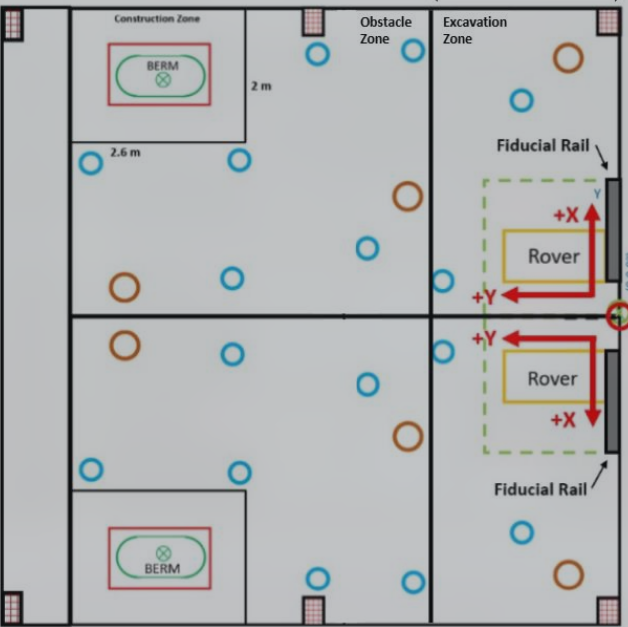
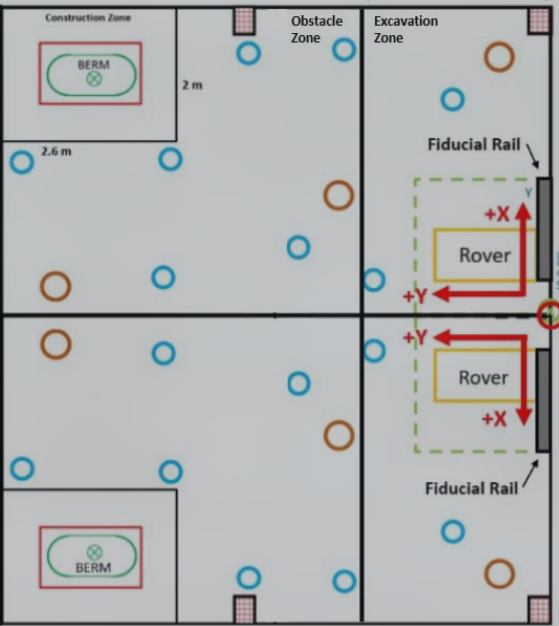
fix ucf scaling stuff

diff --git a/lunabot-cu/src/sim.rs b/lunabot-cu/src/sim.rs
@@ -230,7 +230,6 @@ fn sim_callback<'a>(
         default::SimStep::MotorCtrl(CuTaskCallbackState::Process(input, _)) => {
             if let Some(steering) = input.payload() {
                 let (left, right) = steering.get_left_and_right();
-                println!("[MOTOR_CTRL] l: {left} r: {right}");
                 let speed_mult = steering.get_weight();
                 // FIXME: probably shouldn't just put a magic number
                 let left = (left * speed_mult) * 0.022;
